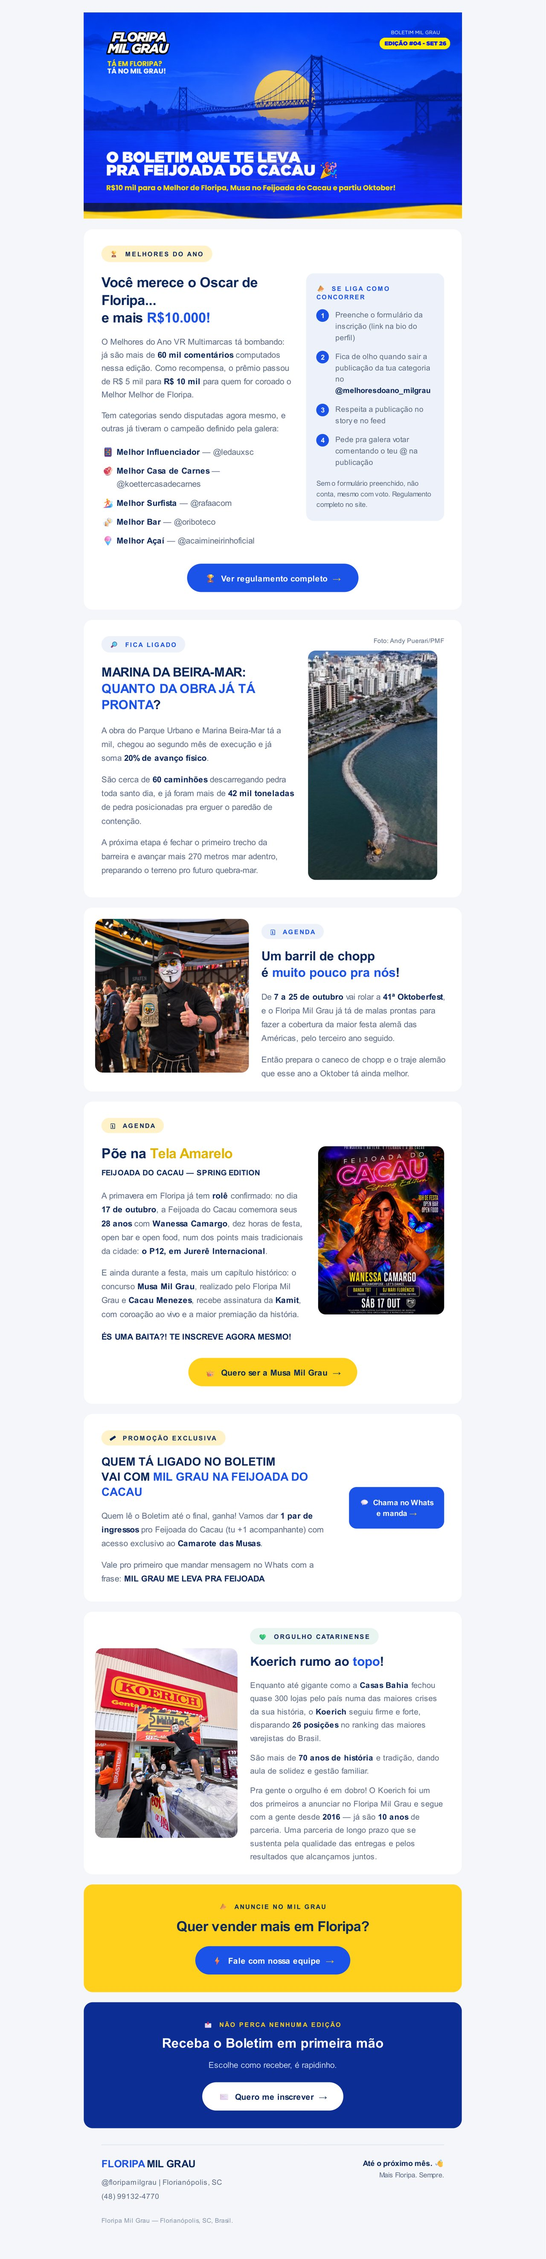
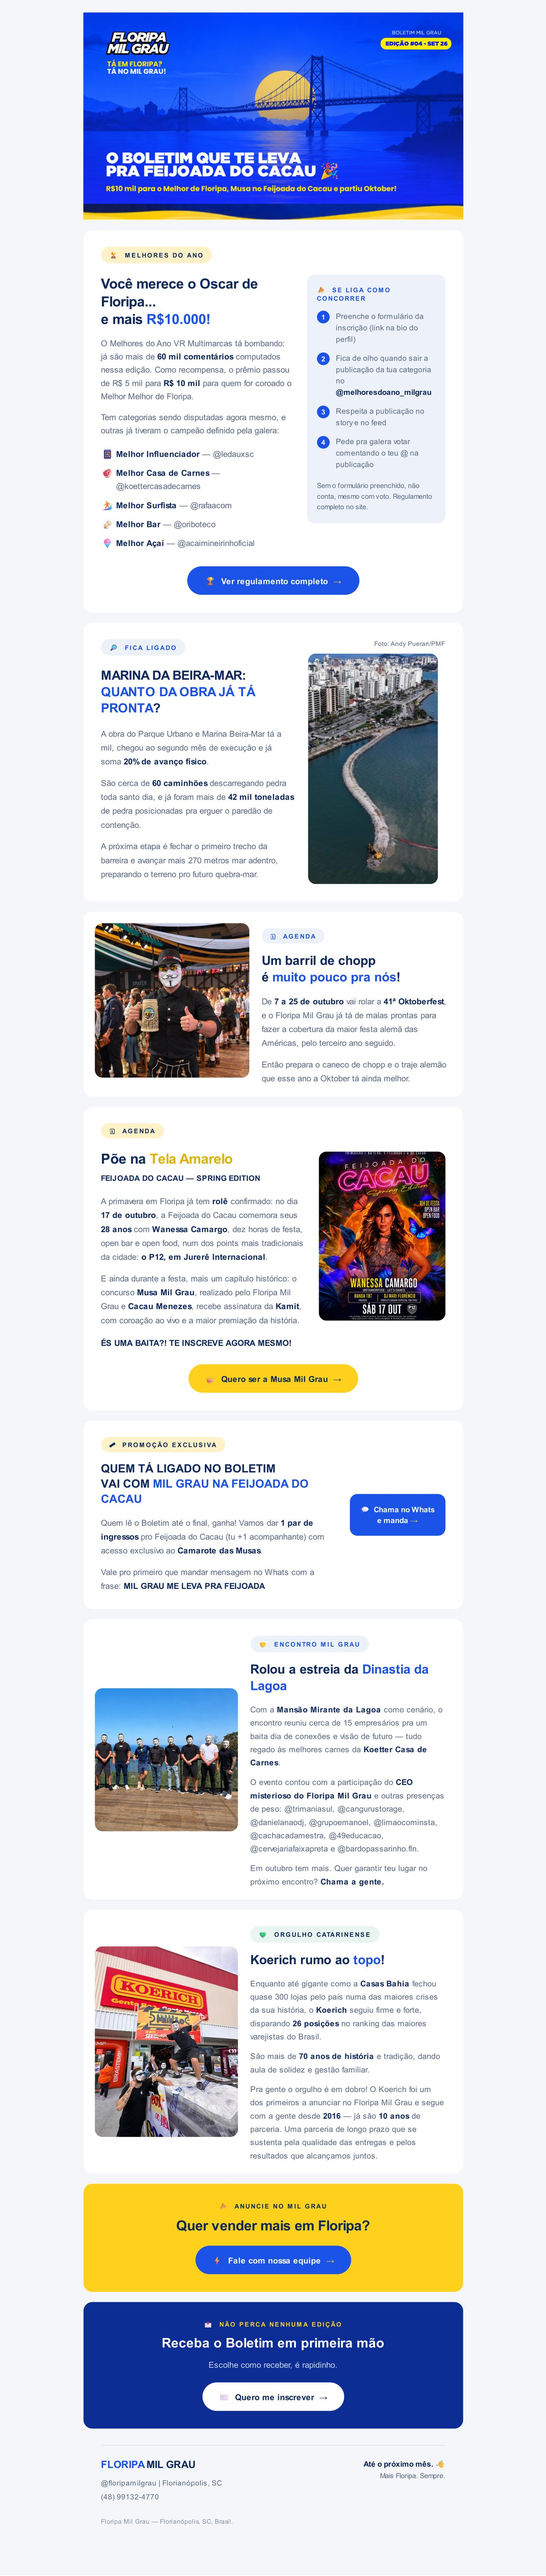
Atualizar boletim #04 com novo bloco Encontro Mil Grau e recalcular mapa de imagem

Changed region(s): [[0.1562, 0.0, 0.875, 0.9968], [0.6875, 0.9345, 0.8125, 0.9656]]

diff --git a/boletim-04-setembro.html b/boletim-04-setembro.html
@@ -15,14 +15,14 @@
 <tr>
 <td align="center" style="padding:20px 10px;">
 
-<img src="https://raw.githubusercontent.com/FMG26-sys/BOLETIM-MILGRAU-DISPARO/main/images/boletim-04-full.jpg" width="640" height="2649" alt="Boletim Floripa Mil Grau — Edição #04. O boletim que te leva pra Feijoada do Cacau. R$10 mil para o Melhor de Floripa, Musa na Feijoada do Cacau e partiu Oktober!" usemap="#boletim04map" border="0" style="display:block; width:640px; height:2649px; max-width:640px;" />
+<img src="https://raw.githubusercontent.com/FMG26-sys/BOLETIM-MILGRAU-DISPARO/main/images/boletim-04-full.jpg" width="640" height="3019" alt="Boletim Floripa Mil Grau — Edição #04. O boletim que te leva pra Feijoada do Cacau. R$10 mil para o Melhor de Floripa, Musa na Feijoada do Cacau e partiu Oktober!" usemap="#boletim04map" border="0" style="display:block; width:640px; height:3019px; max-width:640px;" />
 
 <map name="boletim04map">
-  <area shape="rect" coords="219,661,419,694" href="https://floripamilgrau.com.br/mda26-regulamento-oficial/" alt="Ver regulamento completo" target="_blank" />
-  <area shape="rect" coords="221,1592,418,1625" href="https://form.respondi.app/y3vMg1jG" alt="Quero ser a Musa Mil Grau" target="_blank" />
-  <area shape="rect" coords="409,1744,520,1792" href="https://wa.me/5548991324770?text=MIL%20GRAU%20ME%20LEVA%20PRA%20FEIJOADA" alt="Chama no Whats e manda" target="_blank" />
-  <area shape="rect" coords="229,2282,410,2315" href="https://wa.me/5548991324770?text=Opa!%20Vim%20pelo%20Boletim%20do%20Floripa%20Mil%20Grau%20e%20quero%20saber%20mais%20sobre%20anunciar%20na%20p%C3%A1gina!" alt="Fale com nossa equipe" target="_blank" />
-  <area shape="rect" coords="237,2441,402,2474" href="https://docs.google.com/forms/d/e/1FAIpQLSd-ntf_H-FX_SRs4D0_I-IMMElKUkI8-PqGDpK6b1c1kvAGnw/viewform" alt="Quero me inscrever" target="_blank" />
+  <area shape="rect" coords="220,664,421,697" href="https://floripamilgrau.com.br/mda26-regulamento-oficial/" alt="Ver regulamento completo" target="_blank" />
+  <area shape="rect" coords="221,1599,419,1632" href="https://form.respondi.app/y3vMg1jG" alt="Quero ser a Musa Mil Grau" target="_blank" />
+  <area shape="rect" coords="410,1751,522,1799" href="https://wa.me/5548991324770?text=MIL%20GRAU%20ME%20LEVA%20PRA%20FEIJOADA" alt="Chama no Whats e manda" target="_blank" />
+  <area shape="rect" coords="229,2632,411,2665" href="https://wa.me/5548991324770?text=Opa!%20Vim%20pelo%20Boletim%20do%20Floripa%20Mil%20Grau%20e%20quero%20saber%20mais%20sobre%20anunciar%20na%20p%C3%A1gina!" alt="Fale com nossa equipe" target="_blank" />
+  <area shape="rect" coords="237,2793,403,2825" href="https://docs.google.com/forms/d/e/1FAIpQLSd-ntf_H-FX_SRs4D0_I-IMMElKUkI8-PqGDpK6b1c1kvAGnw/viewform" alt="Quero me inscrever" target="_blank" />
 </map>
 
 </td>
